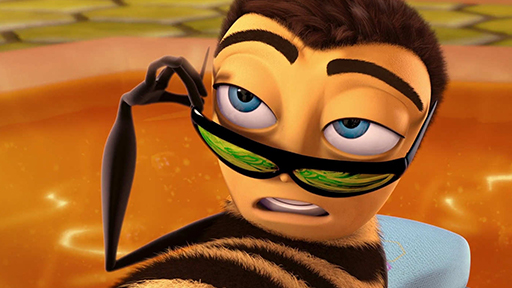
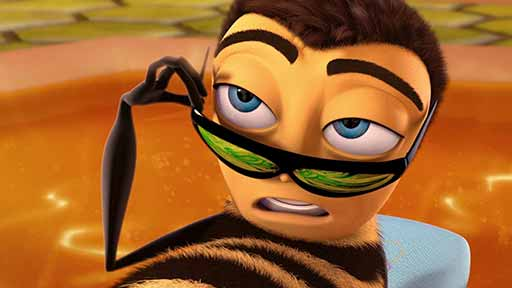
Reduce image file size

diff --git a/index.html b/index.html
@@ -2,7 +2,7 @@
 <html lang="en-ca">
 <head>
   <meta charset="utf-8">
-  <title>Carousel</title>
+  <title>Movie Carousel - Matthew Peixoto</title>
   <meta name="viewport" content="width=device-width,initial-scale=1">
   <link href="css/modules.css" rel="stylesheet">
   <link href="css/grid.css" rel="stylesheet">
@@ -10,7 +10,6 @@
   <link href="css/banner.css" rel="stylesheet">
   <link href="css/card.css" rel="stylesheet">
   <link href="css/main.css" rel="stylesheet">
-  <!-- <link href="https://fonts.googleapis.com/css?family=Roboto:400,700" rel="stylesheet"> -->
   <link rel="stylesheet" href="https://use.typekit.net/yjq7gse.css">
 </head>
 <body>
@@ -19,7 +18,7 @@
     <div class="banner-image"></div>
     <div class="banner-content pin-bl">
       <div class="banner-content-inner pad-left-adapt push-2">
-        <h1 class="banner-title tena push-1-4">Bee Movie</h1>
+        <h1 class="banner-title tena push-1-8">Bee Movie</h1>
         <p class="banner-desc max-length-no-center push-0">Barry B. Benson is disillusioned at his lone career choice: making honey. On a trip outside the hive, Barry's life is saved by Vanessa, a florist in New York City.</p>
       </div>
     </div>
